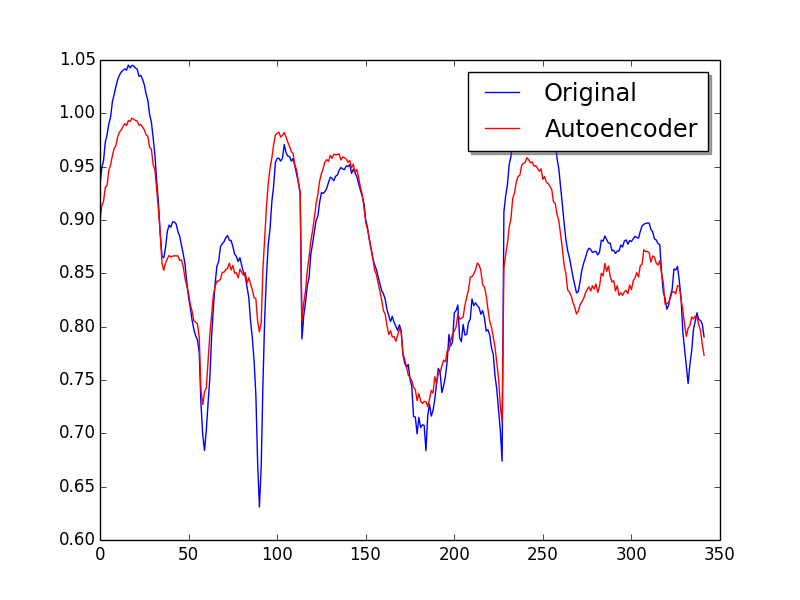
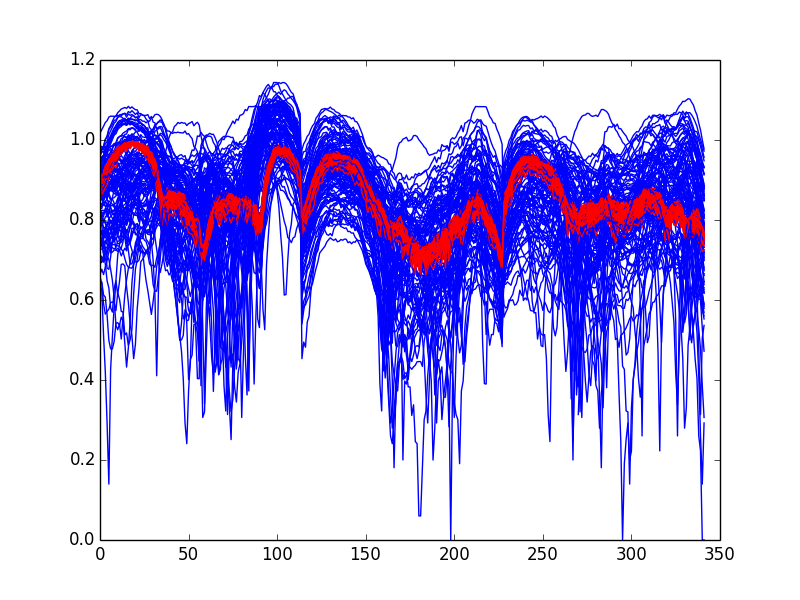
sth. wrong in the ae

diff --git a/CSI_data_processing/deep-layers-autoencoder.py b/CSI_data_processing/deep-layers-autoencoder.py
@@ -25,16 +25,22 @@ magTest = vMag[500:600, :]
 # plt.show()
 
 # autoencoder 提取特征
-encoding_dim = 32 # 32-dim feature
+ncoding_dim = 16 # 32-dim feature
+
+# model
 input_img = Input(shape=(342,))
-encoded = Dense(encoding_dim, activation='relu')(input_img)
-decoded = Dense(342, activation='sigmoid')(encoded)
+encoded = Dense(128, activation='relu')(input_img)
+encoded = Dense(64, activation='relu')(encoded)
+encoded = Dense(32, activation='relu')(encoded)
+encoded = Dense(16, activation='relu')(encoded)
+
+decoded = Dense(32, activation='relu')(encoded)
+decoded = Dense(64, activation='relu')(encoded)
+decoded = Dense(128, activation='relu')(decoded)
+decoded = Dense(342, activation='sigmoid')(decoded)
+
+# this model maps an input to its reconstruction
 autoencoder = Model(input=input_img, output=decoded)
-# this model maps an input to its encoded representation
-encoder = Model(input=input_img, output=encoded)
-encoded_input = Input(shape=(encoding_dim,))
-decoded_layer = autoencoder.layers[-1]
-decoder = Model(input=encoded_input, output=decoded_layer(encoded_input))
 
 ########### Train ############
 
@@ -44,20 +50,19 @@ autoencoder.compile(optimizer='adadelta', loss='binary_crossentropy')
 # train the autoencoder
 autoencoder.fit(magTrain, magTrain,
 	nb_epoch=50,
-	batch_size=64,
+	batch_size=256,
 	shuffle=True,
 	validation_data=(magTest, magTest))
 
-encoded_mag = encoder.predict(magTest)
-decoded_mag = decoder.predict(encoded_mag)
+decoded_mag = autoencoder.predict(magTest)
 
 # Result
 fig, ax = plt.subplots()
 for i in range(100):
 	ax.plot(magTest[i], 'b', label='Original')
 	ax.plot(decoded_mag[i], 'r', label='Autoencoder')
-#legend = ax.legend(loc='upper right', shadow=True)
 
-# plt.show()
-plt.savefig('1-layer-autoencoder.png')
+# legend = ax.legend(loc='upper right', shadow=True)
+
+plt.savefig('deep-layers-autoencoder.png')
 plt.show()
